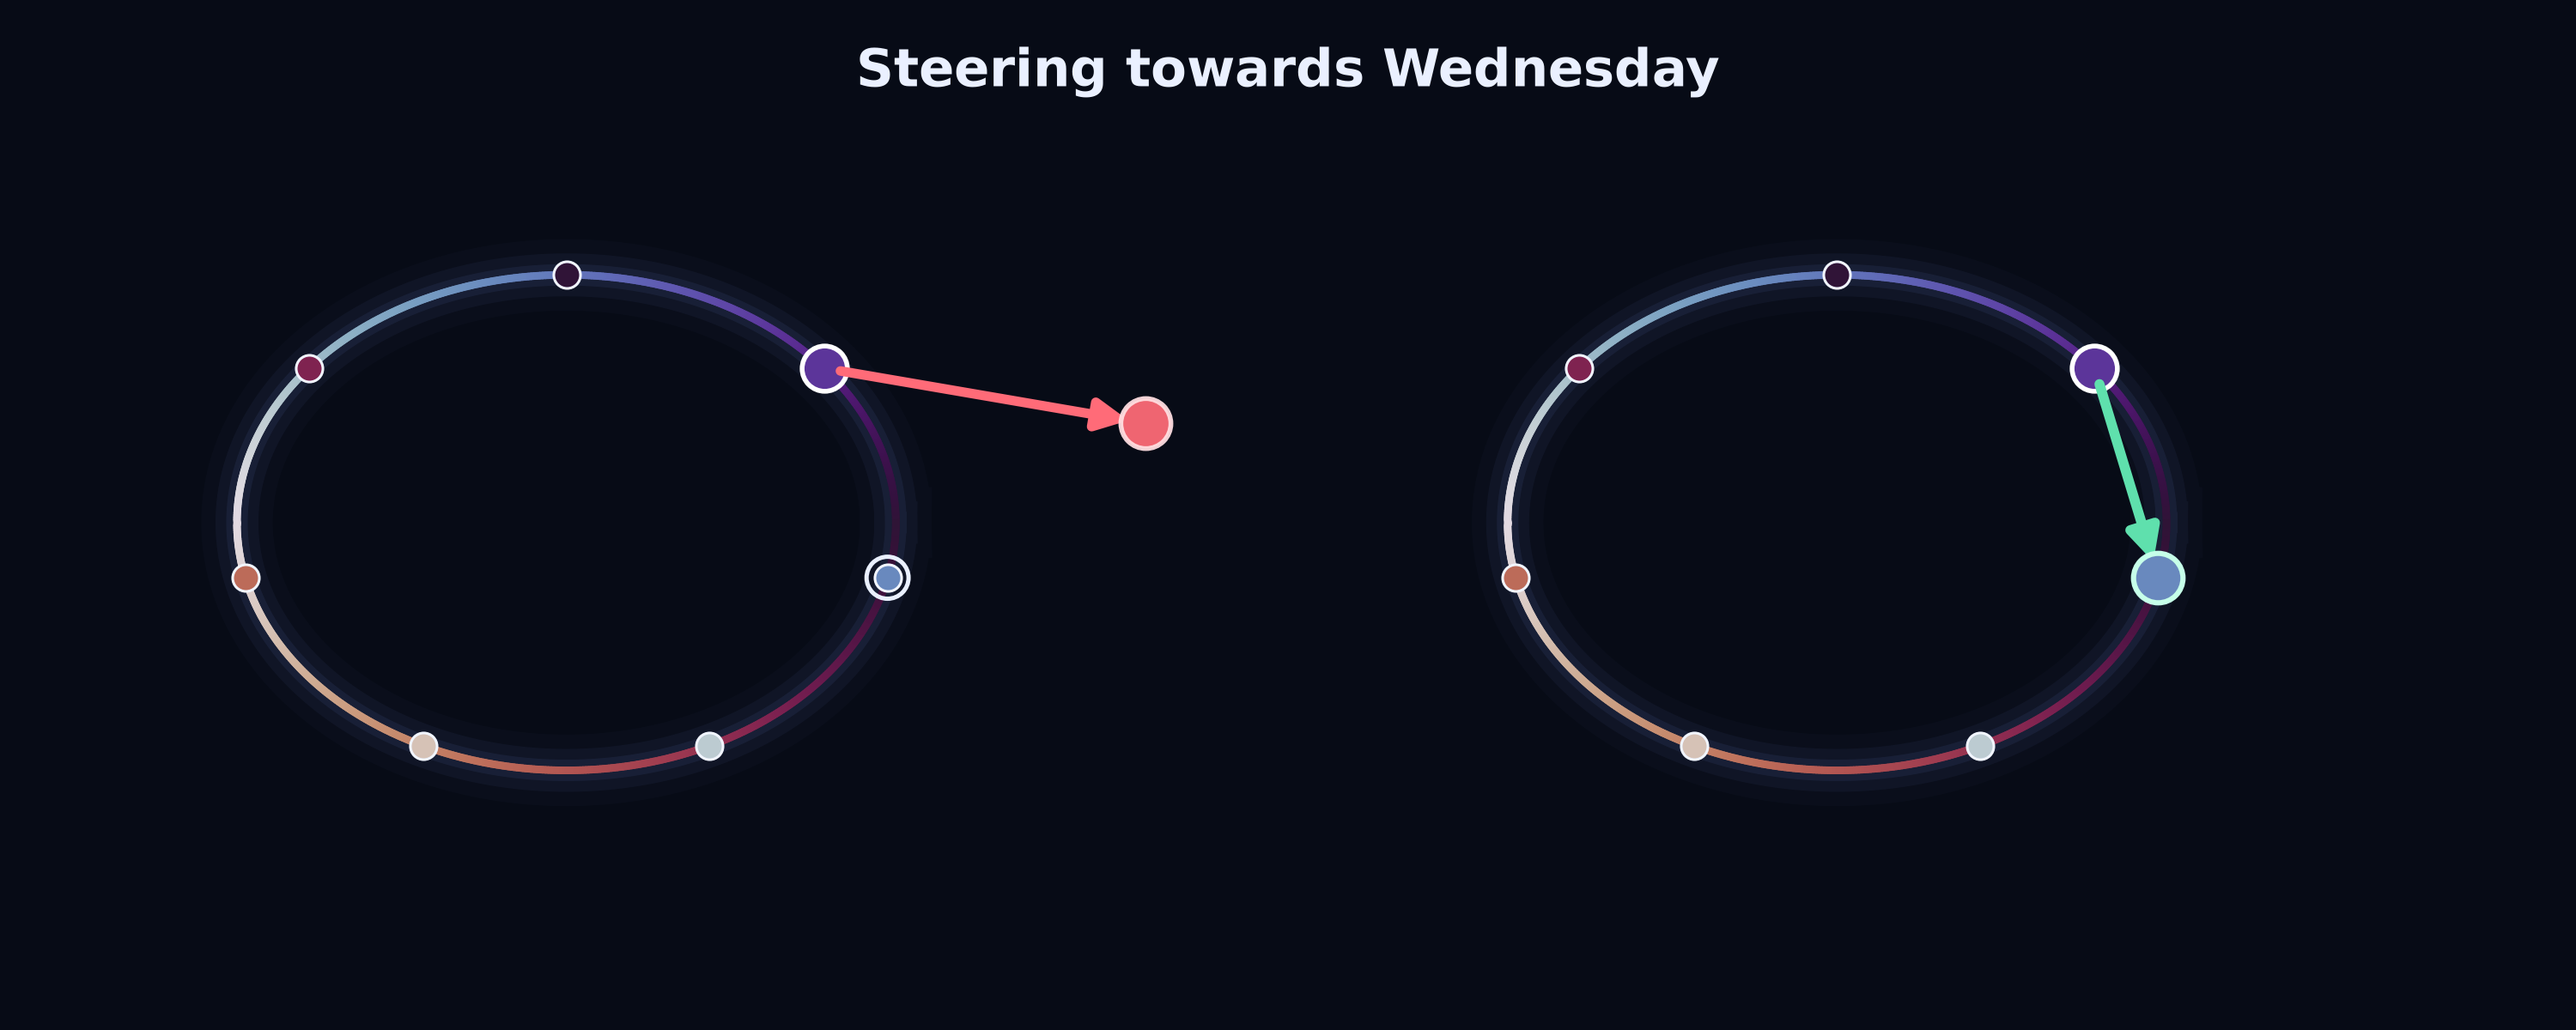
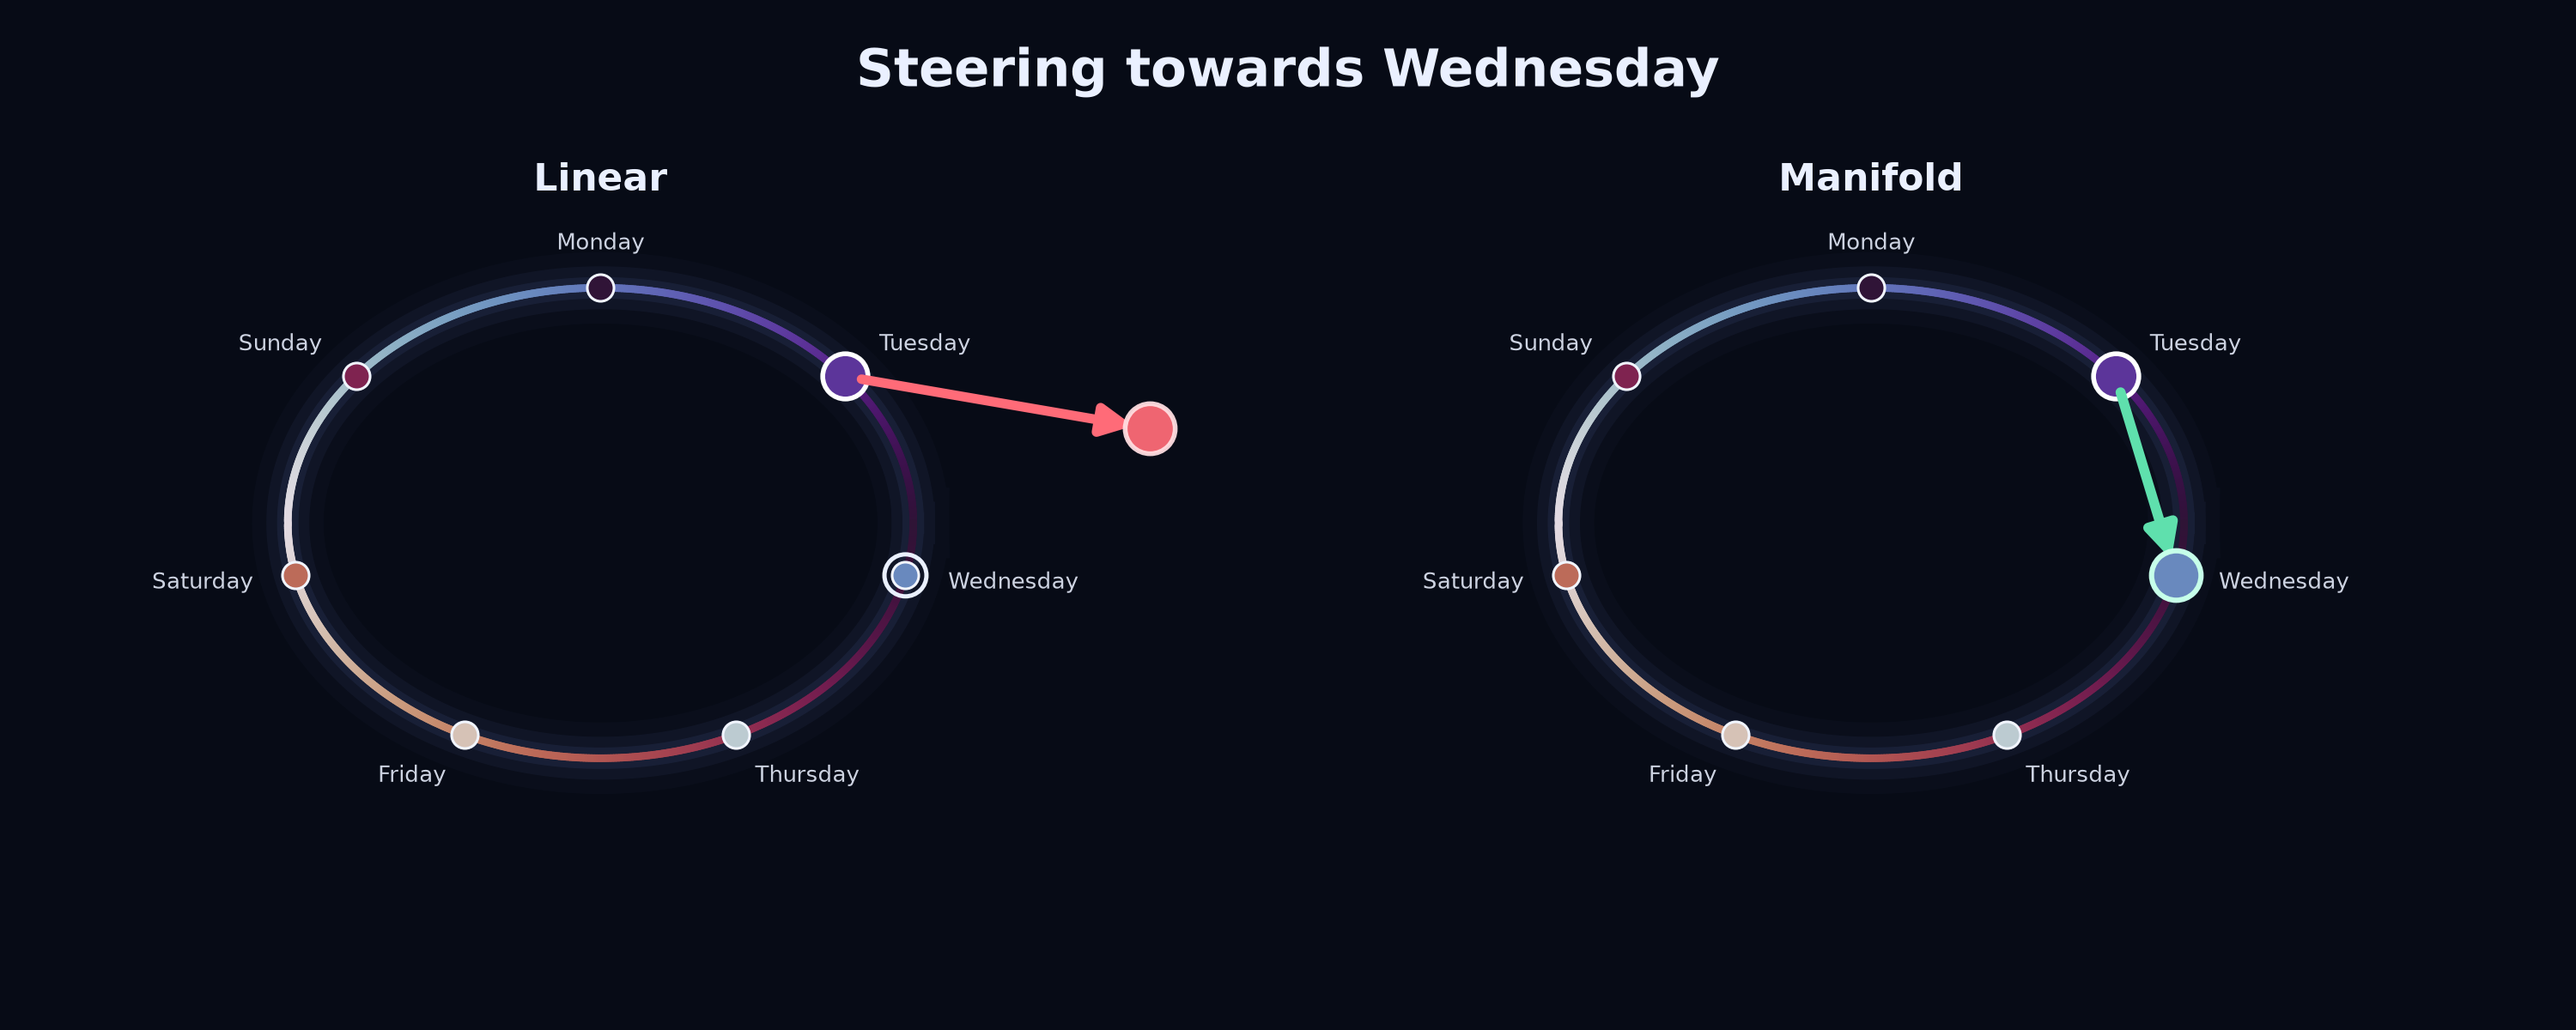
Improve #2502 manifold visibility and steering labels

diff --git a/artifacts/issue_2502_figures/render_grounded_mixed_gallery.py b/artifacts/issue_2502_figures/render_grounded_mixed_gallery.py
@@ -36,7 +36,7 @@ def pca(values: np.ndarray, n_components: int) -> tuple[np.ndarray, np.ndarray, 
 def configure(ax) -> None:
     ax.set_facecolor(INK)
     ax.set_axis_off()
-    ax.set_box_aspect((1.7, 1.1, 0.75), zoom=1.22)
+    ax.set_box_aspect((1.7, 1.1, 0.75), zoom=1.38)
     ax.view_init(elev=23, azim=-58)
     ax.set_proj_type("persp", focal_length=0.9)
 
@@ -53,7 +53,6 @@ curve_entries = [
     by_kind["periodic"][0],
     by_kind["euclidean"][0],
     by_kind["periodic"][1],
-    by_kind["euclidean"][2],
 ]
 
 # Real Qwen activation chart.  Neighborhood discovery is done in its top-24
@@ -122,11 +121,16 @@ for item in candidates:
         break
 
 fig = plt.figure(figsize=(15, 6), dpi=200, facecolor=INK)
-fig.subplots_adjust(left=0.005, right=0.995, bottom=0.015, top=0.985, wspace=0.0, hspace=0.0)
-curve_axes = [fig.add_subplot(2, 3, i + 1) for i in range(4)]
+fig.subplots_adjust(left=0.015, right=0.985, bottom=0.01, top=0.99, wspace=0.02, hspace=0.0)
+grid = fig.add_gridspec(2, 6, height_ratios=[0.92, 1.28])
+curve_axes = [
+    fig.add_subplot(grid[0, 0:2]),
+    fig.add_subplot(grid[0, 2:4]),
+    fig.add_subplot(grid[0, 4:6]),
+]
 surface_axes = [
-    fig.add_subplot(2, 3, 5, projection="3d"),
-    fig.add_subplot(2, 3, 6, projection="3d"),
+    fig.add_subplot(grid[1, 0:3], projection="3d", computed_zorder=False),
+    fig.add_subplot(grid[1, 3:6], projection="3d", computed_zorder=False),
 ]
 axes = curve_axes + surface_axes
 for ax in curve_axes:
@@ -136,7 +140,7 @@ for ax in curve_axes:
 for ax in surface_axes:
     configure(ax)
 
-cmaps = ["twilight_shifted", "viridis", "twilight_shifted", "plasma"]
+cmaps = ["twilight_shifted", "viridis", "twilight_shifted"]
 for ax, item, cmap_name in zip(axes[:4], curve_entries, cmaps):
     idx = item["idx"]
     curve = np.fromfile(DUMP / f"curve_{idx}.bin", dtype="<f8").reshape(-1, ambient_dim)
@@ -149,40 +153,42 @@ for ax, item, cmap_name in zip(axes[:4], curve_entries, cmaps):
     )
     cmap = plt.get_cmap(cmap_name)
     phase = np.linspace(0, 1, len(curve2))
-    for width, alpha in ((16, 0.025), (9, 0.055)):
+    for width, alpha in ((24, 0.025), (14, 0.060), (8, 0.10)):
         ax.plot(curve2[:, 0], curve2[:, 1], color=cmap(0.55), lw=width, alpha=alpha)
     for j in range(len(curve2) - 1):
         ax.plot(
             curve2[j : j + 2, 0],
             curve2[j : j + 2, 1],
             color=cmap(phase[j]),
-            lw=3.0,
+            lw=4.2,
             alpha=0.98,
             solid_capstyle="round",
         )
-    keep = RNG.choice(len(beads2), min(70, len(beads2)), replace=False)
+    keep = RNG.choice(len(beads2), min(90, len(beads2)), replace=False)
     bead_phase = (t - grid[0]) / max(grid[-1] - grid[0], 1e-12)
     ax.scatter(
         beads2[keep, 0],
         beads2[keep, 1],
         c=bead_phase[keep],
         cmap=cmap,
-        s=18,
+        s=42,
         edgecolors="#f2f6ff",
-        linewidths=0.45,
+        linewidths=0.9,
         alpha=0.98,
     )
     extent = np.ptp(np.vstack([curve2, beads2]), axis=0)
     center = np.mean(np.vstack([curve2, beads2]), axis=0)
-    radius = max(float(extent.max()) * 0.62, 1e-9)
+    radius = max(float(extent.max()) * 0.56, 1e-9)
     ax.set_xlim(center[0] - radius, center[0] + radius)
     ax.set_ylim(center[1] - radius, center[1] + radius)
 
 surface_meta = []
-for ax, item, cmap_name in zip(surface_axes, surfaces, ["viridis", "magma"]):
-    q = np.linspace(-1.75, 1.75, 29)
+for surface_index, (ax, item, cmap_name) in enumerate(
+    zip(surface_axes, surfaces, ["viridis", "magma"])
+):
+    q = np.linspace(-2.45, 2.45, 35)
     uu, vv = np.meshgrid(q, q)
-    mask = uu**2 + vv**2 <= 2.9
+    mask = uu**2 + vv**2 <= 5.8
     design = np.column_stack(
         [
             np.ones(uu.size),
@@ -218,9 +224,10 @@ for ax, item, cmap_name in zip(surface_axes, surfaces, ["viridis", "magma"]):
         linewidth=0,
         antialiased=True,
         shade=True,
-        alpha=0.88,
+        alpha=0.82,
+        zorder=2,
     )
-    keep = RNG.choice(len(bead3), min(75, len(bead3)), replace=False)
+    keep = RNG.choice(len(bead3), min(105, len(bead3)), replace=False)
     phase = np.arctan2(item["u"][:, 1], item["u"][:, 0])
     ax.scatter(
         bead3[keep, 0],
@@ -228,12 +235,17 @@ for ax, item, cmap_name in zip(surface_axes, surfaces, ["viridis", "magma"]):
         bead3[keep, 2],
         c=phase[keep],
         cmap=cmap_name,
-        s=14,
+        s=34,
         edgecolors="#f2f6ff",
-        linewidths=0.35,
-        alpha=0.94,
+        linewidths=0.75,
+        alpha=0.98,
         depthshade=False,
+        zorder=10,
     )
+    if surface_index == 0:
+        ax.view_init(elev=29, azim=-54)
+    else:
+        ax.view_init(elev=31, azim=34)
     surface_meta.append(
         {
             "anchor_row": int(item["anchor"]),

diff --git a/artifacts/issue_2502_figures/render_steering_exact.py b/artifacts/issue_2502_figures/render_steering_exact.py
@@ -24,6 +24,7 @@ fig.subplots_adjust(left=0.025, right=0.975, bottom=0.07, top=0.90, wspace=0.08)
 rx, ry = 2.10, 1.58
 theta = np.linspace(0, 2 * np.pi, 720)
 day_theta = np.pi / 2 - np.arange(7) * 2 * np.pi / 7
+day_names = ["Monday", "Tuesday", "Wednesday", "Thursday", "Friday", "Saturday", "Sunday"]
 tue_i, wed_i = 1, 2
 
 
@@ -50,7 +51,7 @@ def arrow(ax, start, end, color, width=3.4, mutation=24, style="-|>", z=9):
 for ax in axes:
     ax.set_facecolor(INK)
     ax.set_aspect("equal")
-    ax.set_xlim(-3.2, 4.3)
+    ax.set_xlim(-3.6, 4.3)
     ax.set_ylim(-2.65, 2.55)
     ax.axis("off")
     loop = np.column_stack([rx * np.cos(theta), ry * np.sin(theta)])
@@ -75,6 +76,20 @@ for ax in axes:
             linewidths=1.1,
             zorder=6,
         )
+        label = xy(angle, 1.14)
+        cosine = np.cos(angle)
+        sine = np.sin(angle)
+        horizontal = "left" if cosine > 0.25 else ("right" if cosine < -0.25 else "center")
+        vertical = "bottom" if sine > 0.25 else ("top" if sine < -0.25 else "center")
+        ax.text(
+            *label,
+            day_names[i],
+            color=TEXT,
+            fontsize=9.5,
+            ha=horizontal,
+            va=vertical,
+            alpha=0.88,
+        )
 fig.suptitle(
     "Steering towards Wednesday",
     color=TEXT,
@@ -88,6 +103,16 @@ wed = xy(day_theta[wed_i])
 
 # Flat SAE: add the Wednesday decoder vector to the unchanged Tuesday state.
 left = axes[0]
+left.text(
+    0.0,
+    2.30,
+    "Linear",
+    color=TEXT,
+    fontsize=16,
+    weight="bold",
+    ha="center",
+    va="center",
+)
 left.scatter(*tue, s=360, color=CMAP(tue_i / 7), edgecolors="white", lw=2.0, zorder=8)
 left.scatter(*wed, s=310, facecolors="none", edgecolors=TEXT, lw=1.8, zorder=8)
 origin = np.array([0.0, 0.0])
@@ -99,6 +124,16 @@ left.scatter(*sum_state, s=440, color=RED, alpha=0.94, edgecolors="#ffdfe2", lw=
 
 # Manifold SAE: subtract the current point and add the target point.
 right = axes[1]
+right.text(
+    0.0,
+    2.30,
+    "Manifold",
+    color=TEXT,
+    fontsize=16,
+    weight="bold",
+    ha="center",
+    va="center",
+)
 right.scatter(*tue, s=360, color=CMAP(tue_i / 7), edgecolors="white", lw=2.0, zorder=8)
 right.scatter(*wed, s=430, color=CMAP(wed_i / 7), edgecolors="#c6ffe9", lw=2.2, zorder=10)
 arrow(right, tue, wed, GREEN, width=4.2, mutation=27)
